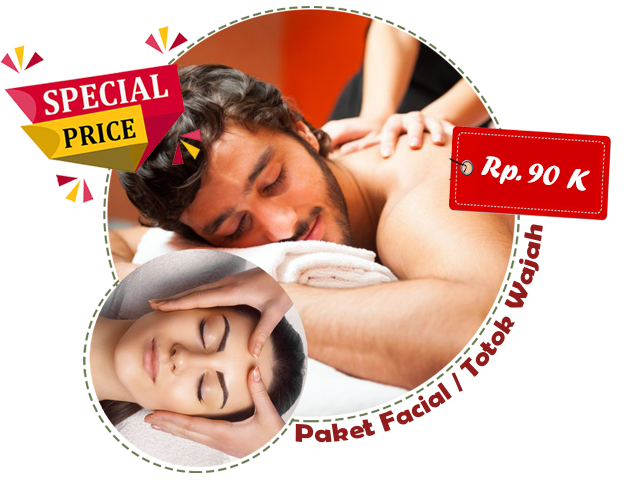
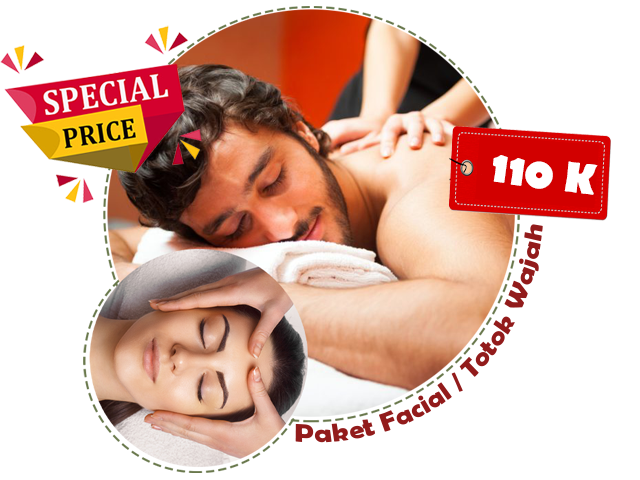
change price

Changed region(s): [[0.75, 0.3125, 0.9375, 0.4062]]

diff --git a/pages/index.vue b/pages/index.vue
@@ -149,7 +149,7 @@ export default {
             'Aromatherapy'
           ],
           duration : '110 Menit',
-          price : 110000
+          price : 130000
         },
         {
           title : 'Facial Package',
@@ -160,7 +160,7 @@ export default {
             'Aromatherapy'
           ],
           duration : '80 Menit',
-          price : 90000
+          price : 110000
         },
         {
           title : 'Ear Candle Package',
@@ -171,7 +171,7 @@ export default {
             'Aromatherapy'
           ],
           duration : '70 Menit',
-          price: 90000
+          price: 110000
         },
         {
           title : 'Scraping Package',
@@ -182,37 +182,37 @@ export default {
             'Aromatherapy'
           ],
           duration : '70 Menit',
-          price : 80000
+          price : 100000
         }
       ],
       fullBodyMassage : [
         {
           title : 'Full Body Massage 60"',
           duration : '60 Menit',
-          price : 60000,
+          price : 80000,
         },
         {
           title : 'Full Body Massage 90"',
           duration : '90 Menit',
-          price : 90000,
+          price : 110000,
         },
         {
           title : 'Full Body Massage 120"',
           duration : '120 Menit',
-          price : 120000,
+          price : 150000,
         },
       ],
       reflexology: [
         {
-          title : 'Refleksi 40"',
-          duration : '40 Menit',
-          price : 40000,
+          title : 'Refleksi 60"',
+          duration : '60 Menit',
+          price : 80000,
         },
-        {
-          title : 'Refleksi 50"',
-          duration : '50 Menit',
-          price : 50000,
-        },
+      //   {
+      //     title : 'Refleksi 50"',
+      //     duration : '50 Menit',
+      //     price : 50000,
+      //   },
       ]
     }
   },
